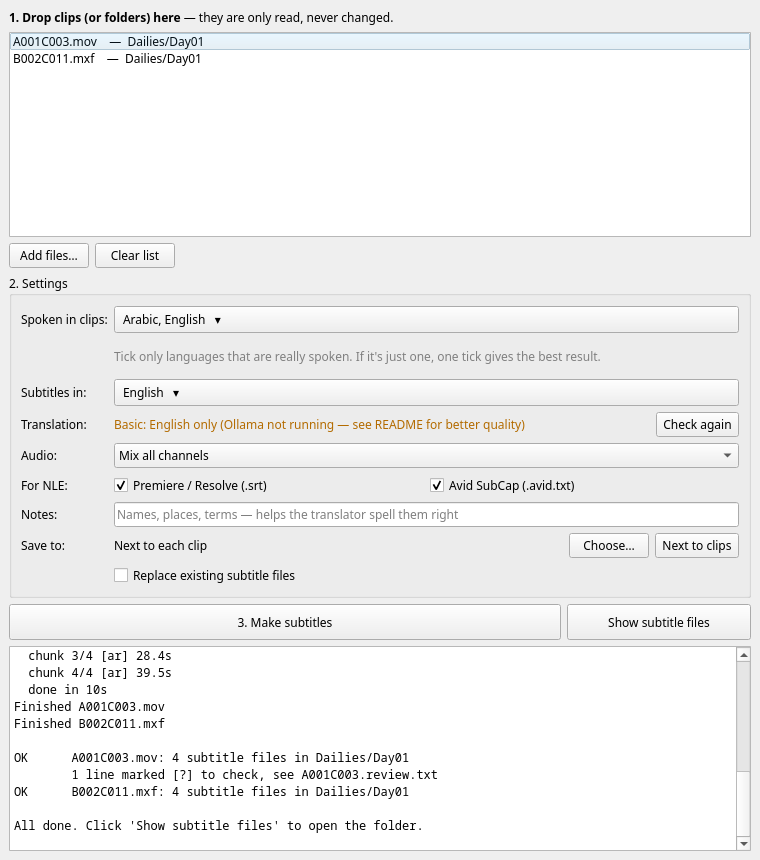
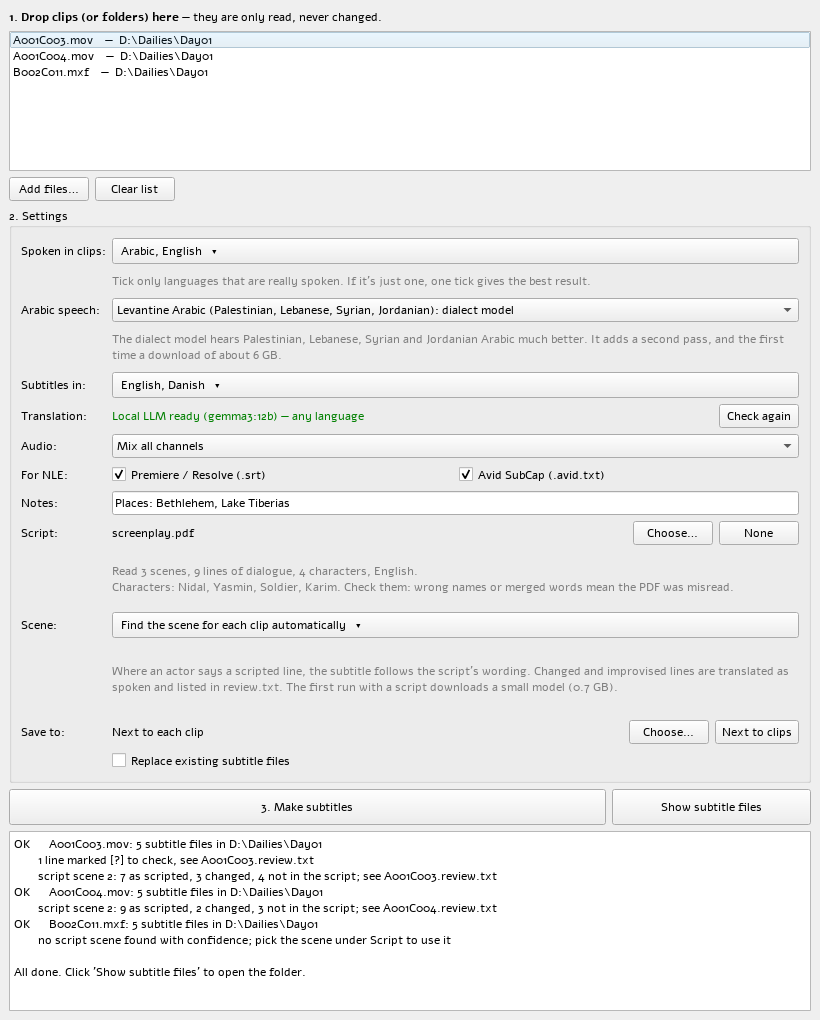
Installers, window and README for 0.4.0 (Mac included)
- Installers (Mac and Windows) ask for the Levantine Arabic dialect model and pass
  --dialect levantine to --setup; the translator now means ~9 GB (gemma and the
  0.7 GB script-matching model). The models are downloaded by makesubs --setup
  through Ollama's API, so the Mac installer no longer depends on where Ollama.app
  keeps its command-line tool (a moved binary would have stopped the install).
  The Mac script stays bash 3.2-safe.
- Window: when no Arabic model was chosen yet, a dialect model the installer
  downloaded is used by default; the hint says it runs on the processor on a Mac;
  the script hint mentions the one-time 0.7 GB model.
- README: what's new in the intro, install sizes and the two installer questions,
  uninstall incl. Ollama models, Mac notes, how script matching works now (by
  meaning) with the measured result, two script troubleshooting rows, limitations,
  development notes. New screenshots of the window and the scene picker, made from
  the real window with the test screenplay.

diff --git a/src/makesubs/gui.py b/src/makesubs/gui.py
@@ -14,7 +14,7 @@ from PySide6.QtWidgets import (
 )
 
 from . import __version__, languages, translate
-from .asr import DIALECTS
+from .asr import DIALECTS, dialect_installed
 from . import script as screenplay
 from .pipeline import Options, run
 
@@ -350,9 +350,11 @@ class Window(QMainWindow):
             self.dialect.addItem(f"{name}: dialect model", key)
         self.dialect_label = QLabel("Arabic speech:")
         form.addRow(self.dialect_label, self.dialect)
+        where = (" On a Mac it runs on the processor, which adds a few minutes per clip."
+                 if sys.platform == "darwin" else "")
         self.dialect_hint = QLabel("The dialect model hears Palestinian, Lebanese, Syrian and "
-                                   "Jordanian Arabic much better. It adds a second pass and a "
-                                   "one-time download of about 6 GB.")
+                                   "Jordanian Arabic much better. It adds a second pass, and "
+                                   "the first time a download of about 6 GB." + where)
         self.dialect_hint.setWordWrap(True)
         self.dialect_hint.setStyleSheet("color: gray")
         form.addRow("", self.dialect_hint)
@@ -460,7 +462,10 @@ class Window(QMainWindow):
                                 if s.value(k, d, bool)] + _split(s.value("t_other", "")))
         self.targets.set_codes(_split(targets))
         self.channel.setCurrentIndex(max(0, self.channel.findData(s.value("channel", "mix"))))
-        self.dialect.setCurrentIndex(max(0, self.dialect.findData(s.value("dialect", "") or None)))
+        dialect = s.value("dialect", None)
+        if dialect is None:  # never chosen: use a dialect model the installer downloaded
+            dialect = next((k for k in sorted(DIALECTS) if dialect_installed(k)), "")
+        self.dialect.setCurrentIndex(max(0, self.dialect.findData(dialect or None)))
         self.f_srt.setChecked(s.value("f_srt", True, bool))
         self.f_avid.setChecked(s.value("f_avid", False, bool))
         self.note.setText(s.value("note", ""))
@@ -517,7 +522,8 @@ class Window(QMainWindow):
         elif script:
             self.script_hint.setText("Where an actor says a scripted line, the subtitle follows "
                                      "the script's wording. Changed and improvised lines are "
-                                     "translated as spoken and listed in review.txt.")
+                                     "translated as spoken and listed in review.txt. The first "
+                                     "run with a script downloads a small model (0.7 GB).")
             self.script_hint.setStyleSheet("color: gray")
         if hasattr(self, "script_hint"):
             self.script_hint.setVisible(bool(script))

diff --git a/tests/test_dialect.py b/tests/test_dialect.py
@@ -80,3 +80,13 @@ def test_dialect_needs_its_language():
         pipeline.validate(Options(spoken=["da"], translator="whisper", dialect="levantine"))
     with pytest.raises(RuntimeError, match="Unknown dialect model"):
         pipeline.validate(Options(spoken=["ar"], translator="whisper", dialect="egyptian"))
+
+
+def test_dialect_installed(monkeypatch):
+    import huggingface_hub
+    monkeypatch.setattr(huggingface_hub, "try_to_load_from_cache",
+                        lambda repo, name, cache_dir=None: f"/cache/{repo}/{name}")
+    assert asr.dialect_installed("levantine")
+    monkeypatch.setattr(huggingface_hub, "try_to_load_from_cache",
+                        lambda repo, name, cache_dir=None: None)
+    assert not asr.dialect_installed("levantine")

diff --git a/src/makesubs/asr.py b/src/makesubs/asr.py
@@ -64,6 +64,16 @@ DIALECTS = {
 }
 
 
+def dialect_installed(key: str) -> bool:
+    """Whether a dialect model is already downloaded (by the installer, say)."""
+    try:
+        from huggingface_hub import try_to_load_from_cache
+        found = try_to_load_from_cache(DIALECTS[key][1], "model.bin", cache_dir=_model_dir())
+        return isinstance(found, str)
+    except Exception:  # noqa: BLE001 - only decides a default in the window
+        return False
+
+
 # ---------------------------------------------------------------- engines
 
 class Engine:

diff --git a/README.md b/README.md
@@ -7,18 +7,23 @@ them: a transcript in the spoken language plus translations (English by default,
 other languages optional). **Source clips are only read, never modified**: no remuxing,
 no embedded tracks, so timecode, reel names and all other metadata stay exactly as they were.
 
-- Speech recognition: Whisper large-v3 (NVIDIA GPU via faster-whisper, Apple Silicon via MLX)
+- Speech recognition: Whisper large-v3 (NVIDIA GPU via faster-whisper, Apple Silicon via MLX),
+  with an optional dialect model for Levantine Arabic (Palestinian, Lebanese, Syrian, Jordanian)
 - Translation: a local LLM through [Ollama](https://ollama.com) (optional, recommended), or
   Whisper's built-in English translation
+- Optionally follows the screenplay (PDF, Final Draft, Fountain or plain text): where an actor
+  says a scripted line, the subtitle uses the script's wording; changed and improvised lines
+  are translated as spoken and listed for review
 - Frame-accurate cues using the clip's frame rate (including 29.97/59.94 drop-frame) and
   source timecode
 - Lines the recogniser was unsure about are marked `[?]` and listed in a review file
 
 ## Install (editors)
 
-You need about 15 GB of free disk space, an internet connection for the first setup, and
-either a Windows PC with an NVIDIA graphics card or a Mac with Apple Silicon (M1 or later).
-Other machines work too, just much slower.
+You need about 20 GB of free disk space (26 GB with the Arabic dialect model), an internet
+connection for the first setup, and either a Windows PC with an NVIDIA graphics card or a Mac
+with Apple Silicon (M1 or later) and at least 16 GB of memory. Other machines work too, just
+much slower.
 
 **Windows**: open PowerShell and paste:
 
@@ -32,10 +37,18 @@ powershell -ExecutionPolicy ByPass -c "irm https://raw.githubusercontent.com/Wan
 curl -fsSL https://raw.githubusercontent.com/Wangle-Media/make-english-subs/main/install/install-mac.sh | bash
 ```
 
-The installer asks whether to add the **high-quality translator** (Ollama plus an about 8 GB
-model). Say yes unless disk space is tight: it gives clearly better English, and it is required
-for Danish and other target languages. You can run the installer again at any time to update
-or to add the translator later.
+The installer asks two questions:
+
+1. Whether to add the **high-quality translator** (Ollama plus about 9 GB of models). Say yes
+   unless disk space is tight: it gives clearly better English, and it is required for Danish
+   and other target languages and for following a script.
+2. Whether to download the **Levantine Arabic dialect model** (about 6 GB). Say yes if the
+   clips are in Palestinian, Lebanese, Syrian or Jordanian Arabic: it hears the dialect much
+   better (see [Arabic speech](#2-settings)). The window then uses it for Arabic by default.
+   On a Mac it runs on the processor instead of the graphics chip, which adds a few minutes
+   per clip.
+
+You can run the installer again at any time to update, or to add what you skipped.
 
 The installer also runs a short test of the speech recognition. If it says
 **WARNING: no usable NVIDIA GPU** on a PC that has an NVIDIA card, update the graphics driver
@@ -54,10 +67,11 @@ When it finishes you have a **MakeSubs** shortcut on the desktop (Windows) or in
 uv tool uninstall makesubs
 ```
 
-Then delete the shortcut, and to free the disk space used by the speech model, the folder
+Then delete the shortcut, and to free the disk space used by the speech models, the folder
 `.cache\huggingface` in your user folder (Windows; also `C:\ProgramData\MakeSubs` if it
-exists) or `~/.cache/huggingface` (Mac). Remove **Ollama** like any other app if you
-installed the translator and don't need it for anything else.
+exists) or `~/.cache/huggingface` (Mac). If you installed the translator: remove its models
+with `ollama rm gemma3:12b mxbai-embed-large`, and remove **Ollama** like any other app if you
+don't need it for anything else.
 
 ## Using it
 
@@ -90,7 +104,9 @@ Palestinian Arabic scene it got "You've been sleeping a lot" and "The olive tree
 again" where the standard model heard "You're sleeping on it" and "Zatoun returned to Zahar".
 It can't write English or translate, so the standard model still detects the languages,
 writes the English, and makes the rough English draft; the dialect model then transcribes
-only the Arabic, in a second pass. The first run with it downloads about 6 GB.
+only the Arabic, in a second pass. The first run with it downloads about 6 GB, unless the
+installer already did; then it is chosen by default. On a Mac it runs on the processor (the
+standard model uses the graphics chip), which adds a few minutes per clip.
 
 **Subtitles in**: tick English, Danish or any other language, the same way.
 
@@ -117,12 +133,15 @@ improvised are translated as spoken, and listed in `review.txt` next to the scri
 
 Right after you choose it, the window shows what was read: the number of scenes and lines of
 dialogue, and the characters. If the names look wrong (merged words, names that aren't
-characters), the PDF was misread; tell us, and try the `.fdx` if there is one.
+characters), the PDF was misread; tell us, and try the `.fdx` if there is one. The first run
+with a script downloads a small extra model (0.7 GB) that matches the subtitles to the script.
 
 **Scene**: leave it on *Find the scene for each clip automatically* and MakeSubs finds the
 scene itself. If all the clips you're adding are from one scene (or a few), click it and tick
 the scene(s): the list shows every scene with its heading and characters, can be searched
 (number, place or character), and shows a scene's first lines when you hover over it.
+
+![Picking the scene](docs/scene-picker.png)
 
 **Save to**: *Next to each clip* by default. Click **Choose…** to put all subtitle files in one
 folder instead, and **Next to clips** to go back.
@@ -137,13 +156,15 @@ MakeSubs remembers these settings for next time.
 Click **Make subtitles**. The box underneath shows what's happening. The first run downloads
 the models (several GB) and takes longer; after that, expect roughly a minute per few minutes
 of footage on a recent NVIDIA card or M-series Mac, plus about 30–90 s per clip and language
-for high-quality translation. Wait for it to finish before closing the window.
+for high-quality translation, and a little more with a script or the dialect model. Wait for
+it to finish before closing the window.
 
 When it's done, the box ends with a summary per clip:
 
 ```
 OK      A001C003.mov: 4 subtitle files in D:\Dailies\Day01
         1 line marked [?] to check, see A001C003.review.txt
+        script scene 2: 7 as scripted, 3 changed, 4 not in the script; see A001C003.review.txt
 OK      B002C011.mxf: 4 subtitle files in D:\Dailies\Day01
 
 All done. Click 'Show subtitle files' to open the folder.
@@ -160,6 +181,8 @@ Click **Show subtitle files** to open that folder. Then import the files into yo
 | `SKIP …: no audio` | The file has no sound (or isn't a video). Use a version of the clip with audio. |
 | `… needs the high-quality translator (Ollama)` (orange, under *Subtitles in*) | Start the Ollama app and click **Check again**, or untick the non-English languages. |
 | `FAILED …` | Something went wrong with that clip; the reason is on the same line. The other clips still finish. |
+| *Can't use this script: …* (red, under *Script*) | The file isn't there any more, or isn't a screenplay MakeSubs can read (a scanned PDF, for example). Try the `.fdx` or another export. |
+| `no script scene found with confidence` | The clip is short, mostly improvised, or the audio is poor. Pick the scene under **Scene** to use the script anyway. |
 | A box saying *MakeSubs: unexpected error* | Send the file it names (`makesubs.log`) to whoever set up MakeSubs for you. |
 
 The log file is in `%LOCALAPPDATA%\Wangle Media\MakeSubs` (Windows) or
@@ -180,15 +203,19 @@ Existing subtitle files are never replaced unless you tick *Replace existing sub
 
 ### Following the script
 
-The script is read for its dialogue, scene by scene. For each clip, in two steps:
+The script is read for its dialogue, scene by scene. For each clip, in three steps:
 
 1. Every line is translated from what was said, without the script, so the script can't pull
    the translation towards what the actor was supposed to say. MakeSubs then compares the
    English translation with the script and picks the scene with the most key words in common
    (names, places, unusual words).
-2. The translations are compared with that scene's script: for every line the translator
-   decides whether the actor said it **as scripted**, **changed** it, or said something **not
-   in the script**.
+2. Each subtitle is paired with the script line it most likely is, by meaning (a small
+   sentence-embedding model, `mxbai-embed-large`, through Ollama) and shared words, keeping
+   the script's order. Actors reword a lot, so meaning finds far more than words alone:
+   "It's out of season" is "...out of sync with the seasons". Subtitles that match nothing,
+   like crew talk, stay unpaired.
+3. The translator checks every pair and decides whether the actor said the line **as
+   scripted**, **changed** it, or said something **not in the script**.
 
 - As scripted: the subtitle uses the script's wording, only the part of the script line said in
   that subtitle. This only happens when the translation and the script line share most of
@@ -196,8 +223,13 @@ The script is read for its dialogue, scene by scene. For each clip, in two steps
 - Changed or not in the script: translated as actually said. The subtitle shows what is in
   the take, never script text that wasn't spoken.
 
+On two takes of a Palestinian Arabic scene that the actors reworded a lot, this found 26 of
+39 and 29 of 37 scripted lines, without a single wrong pairing; most of the rest were lines
+the speech recognition misheard.
+
 When the script is in another language than the subtitles, it is used for deciding only; the
-subtitles stay as translated.
+subtitles stay as translated. Without the embedding model (Ollama couldn't download it, say),
+the pairing falls back to shared words, which finds fewer lines.
 
 `review.txt` ends with what happened:
 
@@ -412,10 +444,12 @@ all clips succeeded and 1 if any failed, so it can be used in scripts.
 
 ## Known limitations
 
-- **Dialect and scratch audio**: tested on Levantine Arabic (Palestinian, Syrian, Lebanese)
-  samples. Clean speech is transcribed well, including dialect. Heavily noisy or distant audio
-  can produce invented text; that is what the `[?]` marks are for. Validate on real camera-test
-  footage before principal photography.
+- **Dialect and scratch audio**: tested on Levantine Arabic (Palestinian, Syrian, Lebanese),
+  including real Palestinian Arabic dailies. Clean speech is transcribed well; the dialect
+  model helps a lot with Levantine Arabic, but dialect words still trip up the translation
+  now and then (an untranslated "Al-Khareef" for autumn, say). Heavily noisy or distant audio
+  can produce invented text; that is what the `[?]` marks are for. Validate on real
+  camera-test footage before principal photography.
 - **Language switches inside a sentence**: language is detected per stretch of speech (up to
   about 15 s), so a short phrase in a second language right next to the first may be written
   in the wrong language.
@@ -423,11 +457,11 @@ all clips succeeded and 1 if any failed, so it can be used in scripts.
   standard screenplay formatting from Final Draft, WriterDuet, Word and the like, but not for
   scanned pages or side-by-side (dual) dialogue (the `.fdx` handles those). Plain text is read
   as Fountain (a character name in capitals with the speech right under it) or, if it keeps
-  the page layout, like a PDF. Finding the scene
-  uses the English translation, so it works best when the script is in English and English is
-  one of the subtitle languages; otherwise, pick the scene. The translator decides what counts as "as
-  scripted" and leans towards "changed" when unsure, so check `review.txt` on important
-  scenes.
+  the page layout, like a PDF. Finding the scene uses the English translation, so it works
+  best when the script is in English and English is one of the subtitle languages; otherwise,
+  pick the scene. About one scripted line in four isn't recognised when the actors reword a
+  lot (it is then listed as not in the script, and keeps its translation), so check
+  `review.txt` on important scenes.
 - **Camera-original raw formats** (BRAW, R3D, ARRIRAW) aren't supported; use the transcodes.
   Avid OP-Atom MXF stores audio in separate files: point MakeSubs at the audio MXF.
 
@@ -440,6 +474,9 @@ uv run makesubs-gui
 ```
 
 Code lives in `src/makesubs/`: `probe` (metadata), `audio` (decoding), `asr` (Whisper, voice
-activity detection, language detection), `shape` (cue timing and line breaks), `translate`
-(Ollama), `script` (screenplay reading and scene matching), `writers` (SRT and SubCap),
-`pipeline`, `cli`, `gui`.
+activity detection, language detection; dialect models in `DIALECTS`), `shape` (cue timing
+and line breaks), `translate` (Ollama: translation in anchored batches, matching subtitles to
+the script by meaning), `script` (screenplay reading and scene finding), `writers` (SRT and
+SubCap), `pipeline`, `cli`, `gui`. The tests need no models or Ollama; `tests/data` has a small
+screenplay as PDF, Final Draft and Fountain. The README screenshots are made from the real
+window, offscreen, with the test screenplay.
